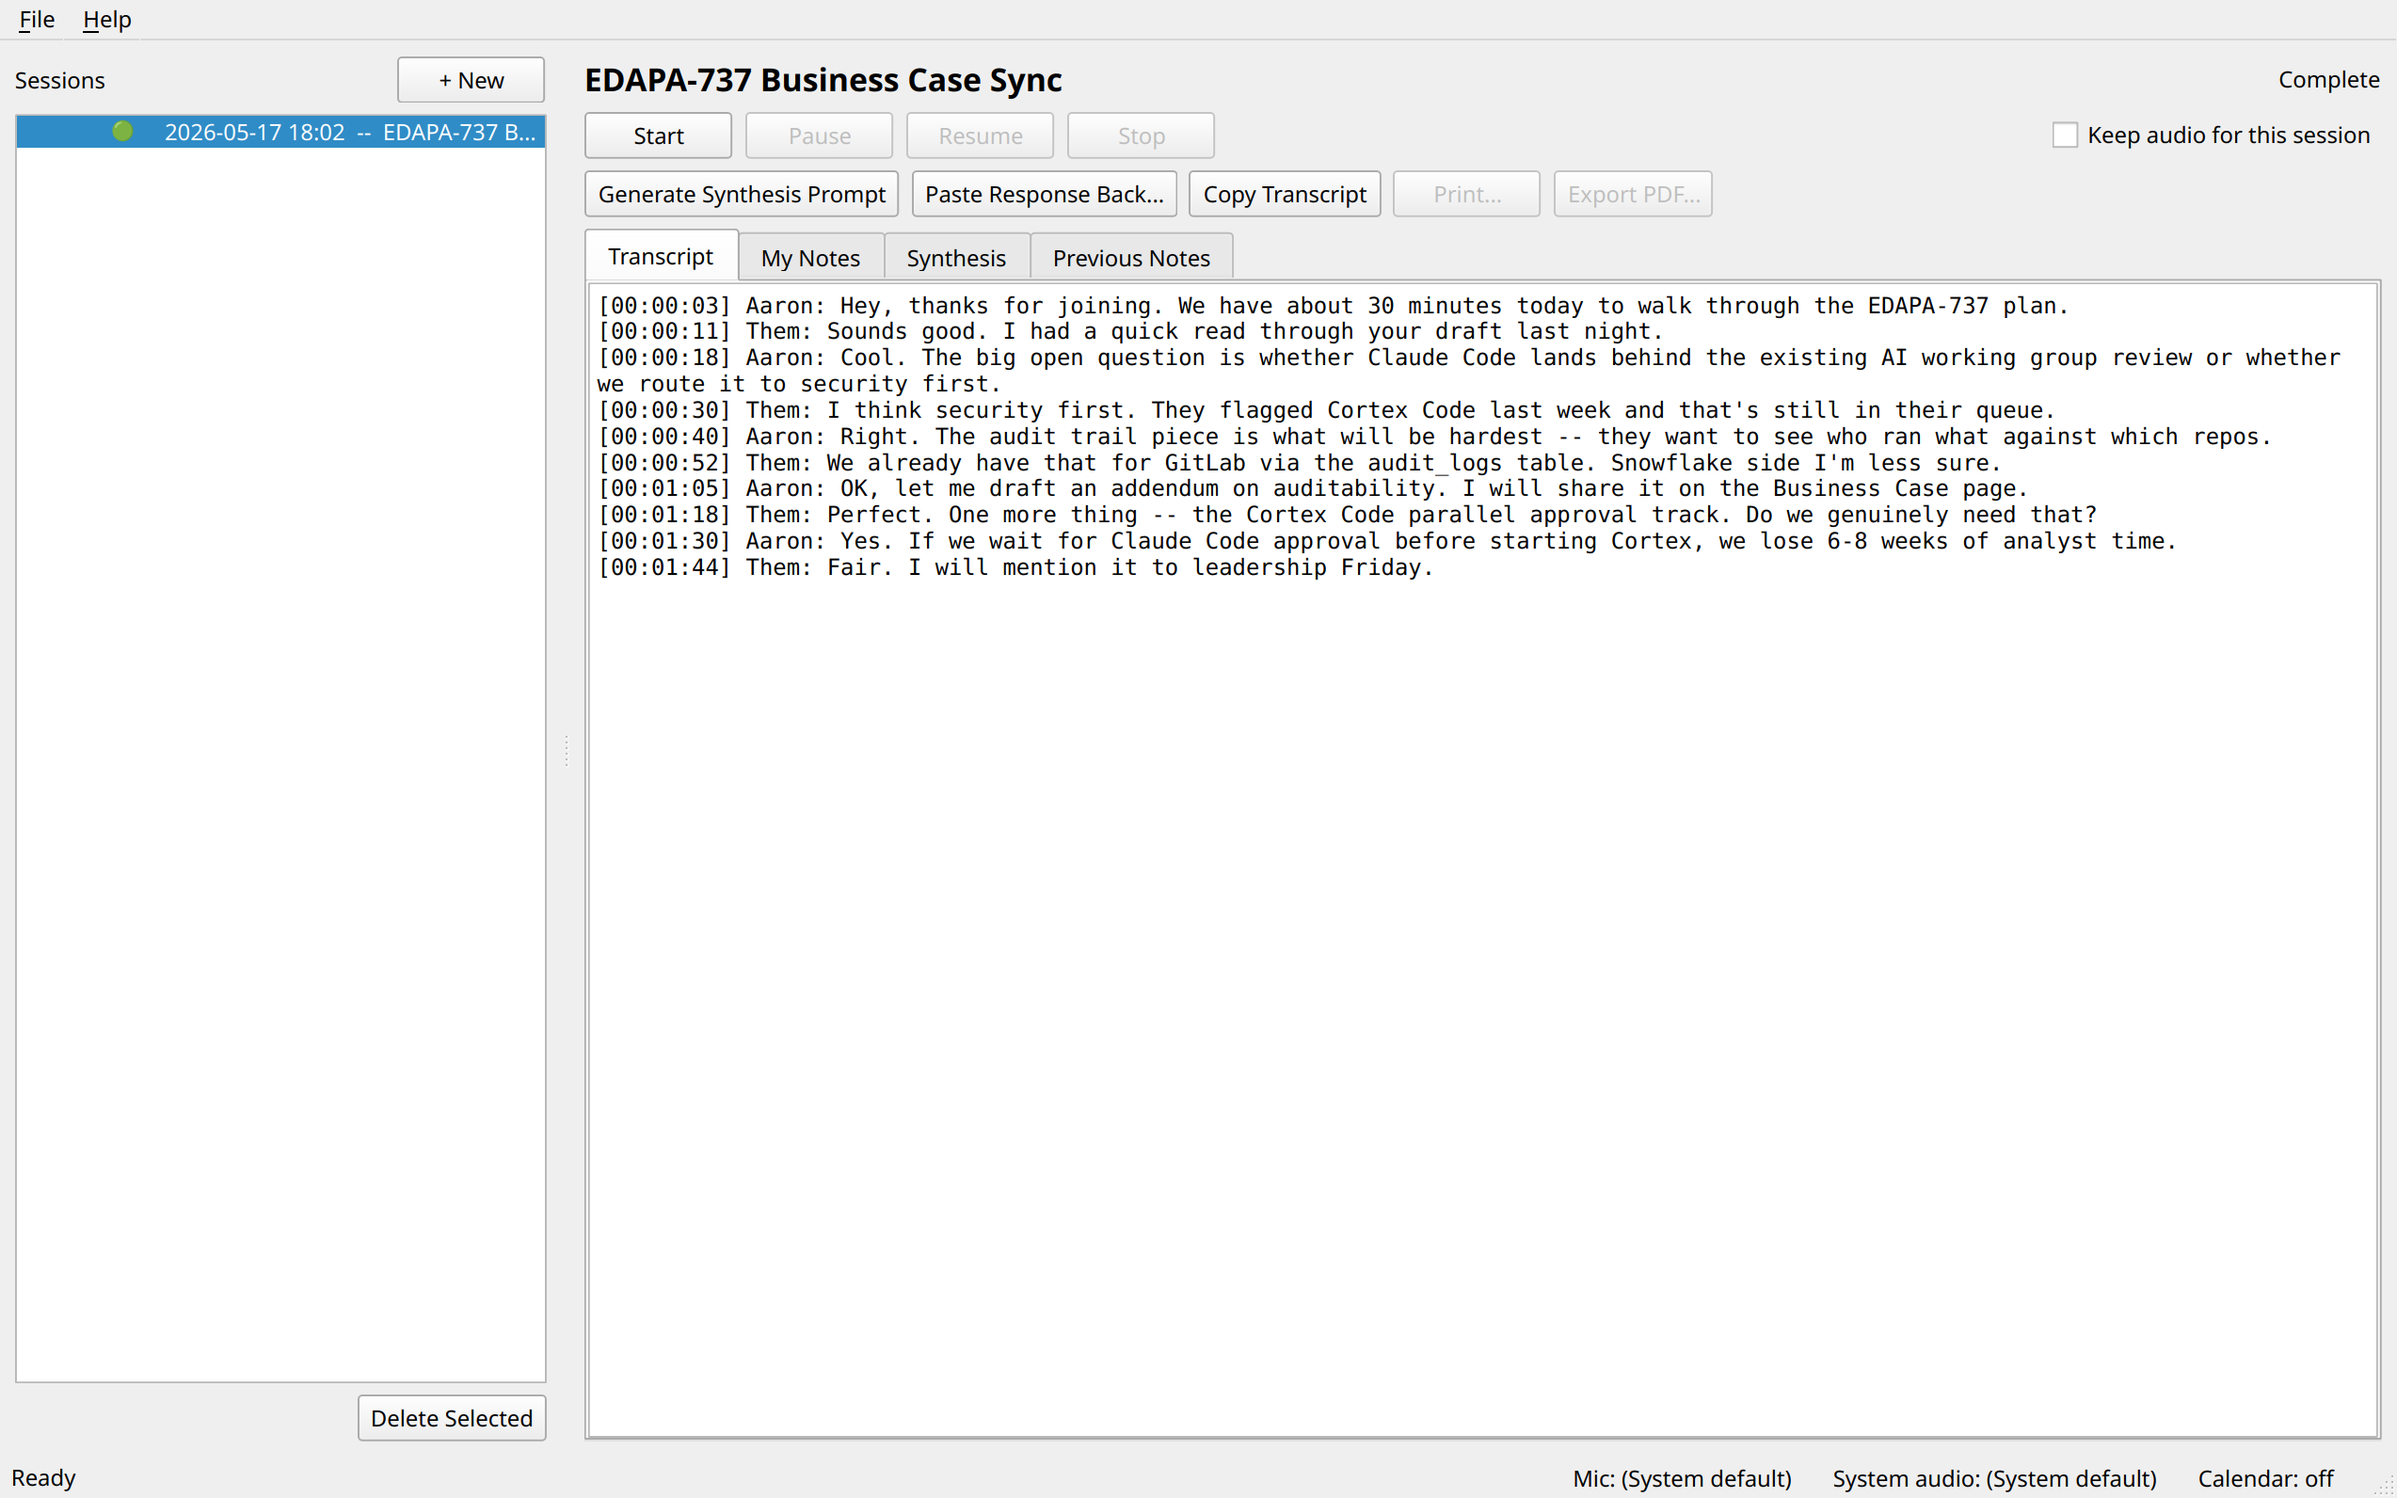
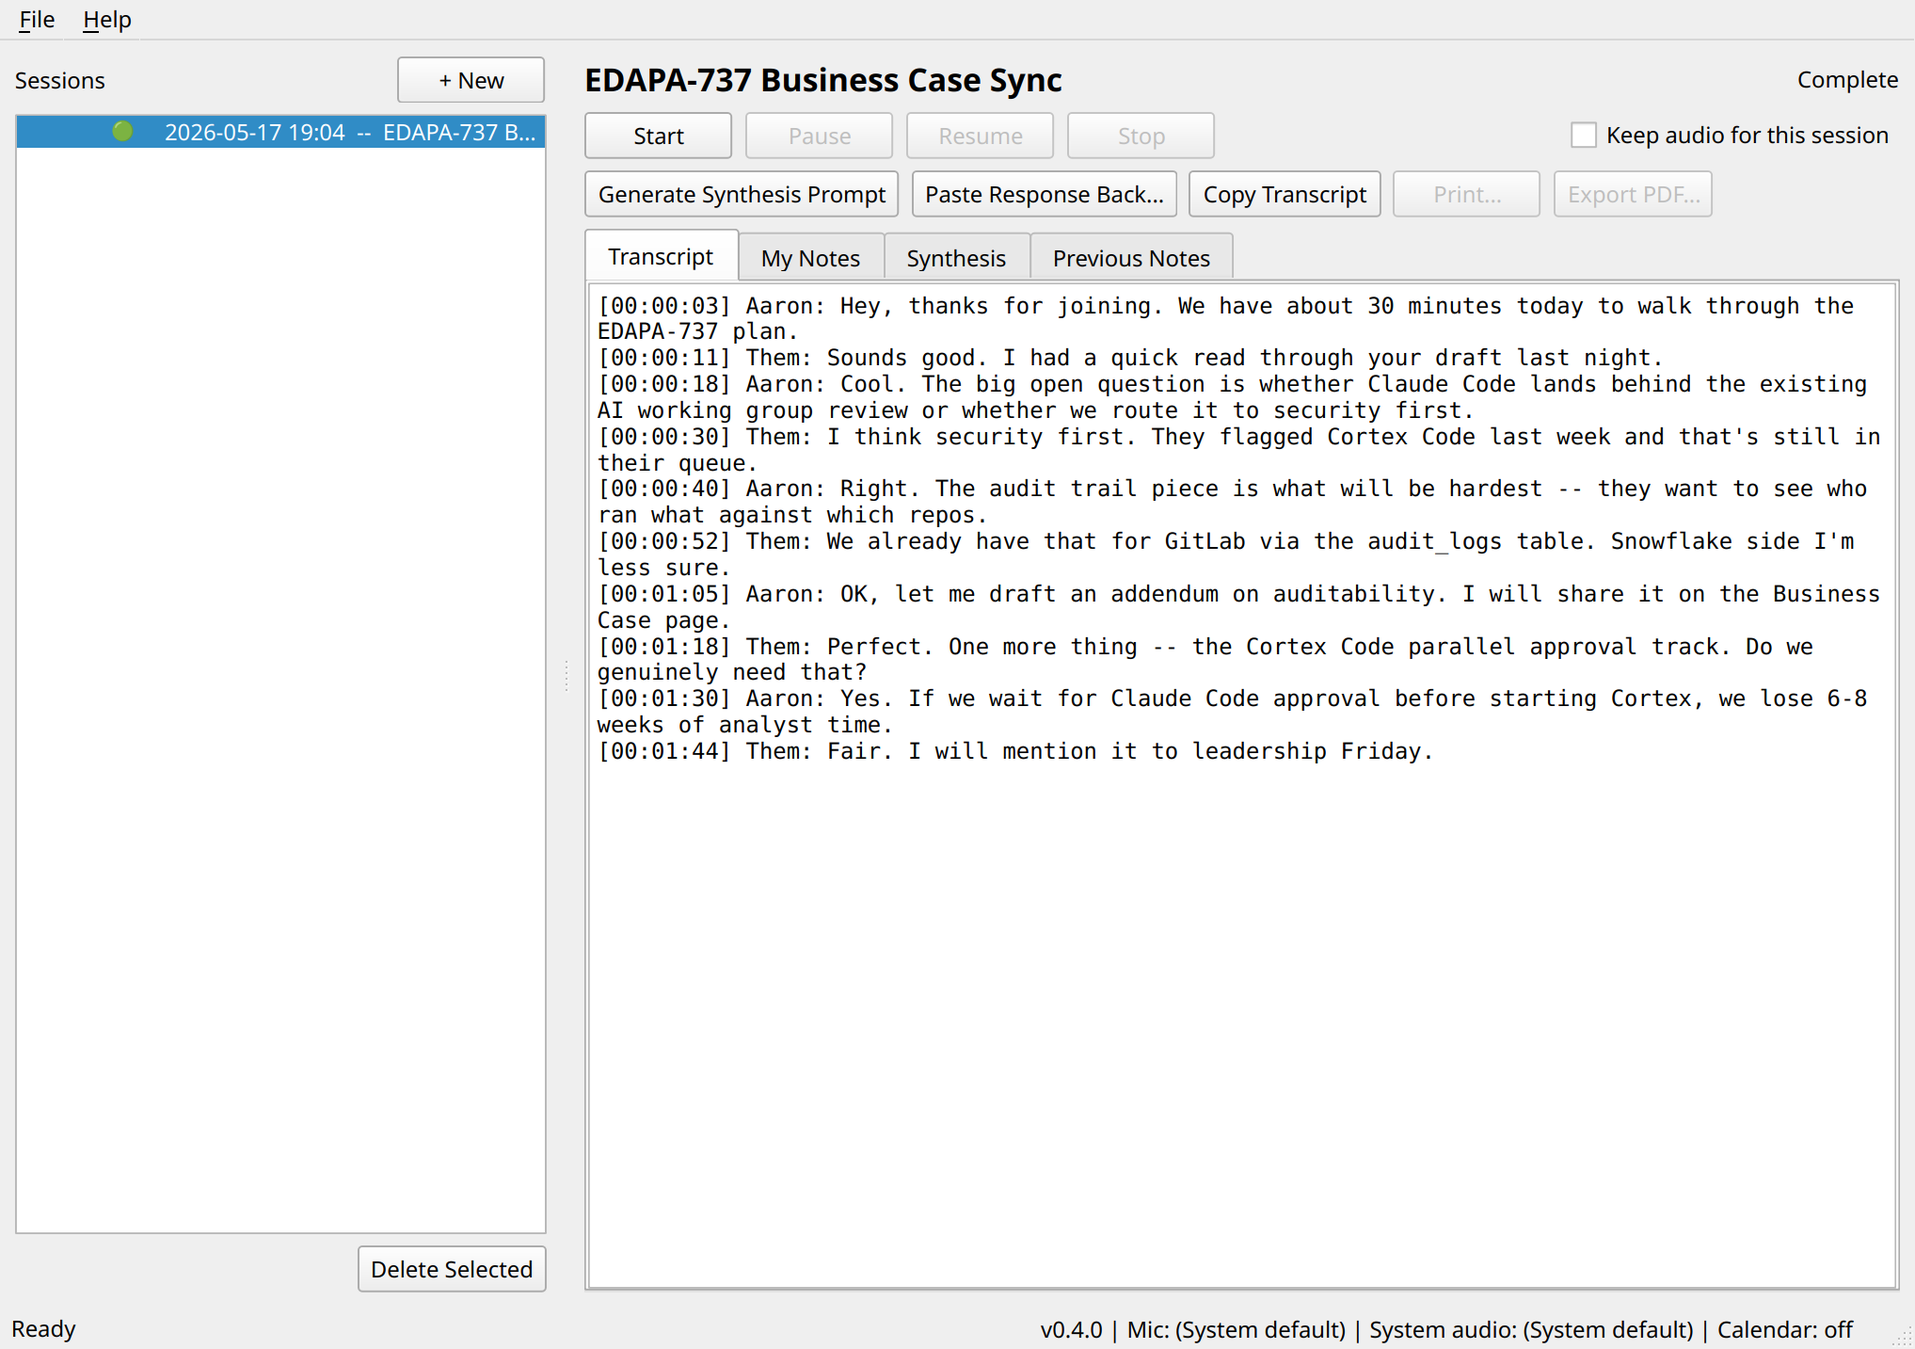
Status bar: add version + collapse to one label
Adding three separate addPermanentWidget() labels made Qt's
Windows-native style paint a separator line after each one,
including a trailing pipe past the last entry. Collapsing to a
single QLabel that joins entries with explicit " | " gives us
control over the separators; the trailing pipe is gone.

Also adds the running app version at the front of the indicator
string so the user can see at a glance which build they are on.
Tooltip joins the long-form per-item descriptions with newlines.

diff --git a/meeting_notetaker/ui/main_window.py b/meeting_notetaker/ui/main_window.py
@@ -161,24 +161,19 @@ class MainWindow(QMainWindow):
         self.setStatusBar(QStatusBar(self))
         self.statusBar().showMessage("Ready")
 
-        # Right-aligned permanent indicators on the status bar.
-        # Each is added with stretch=0 so the transient showMessage() text on
-        # the left side gets the whole leftover row. Labels are populated by
-        # app.py via set_status_indicators().
-        self._mic_indicator = QLabel("", self)
-        self._loopback_indicator = QLabel("", self)
-        self._calendar_indicator = QLabel("", self)
-        for ind in (
-            self._mic_indicator,
-            self._loopback_indicator,
-            self._calendar_indicator,
-        ):
-            ind.setContentsMargins(8, 0, 8, 0)
-            self.statusBar().addPermanentWidget(ind)
+        # Single right-aligned permanent indicator that joins all sub-items
+        # with " | " explicitly. Using one QLabel rather than multiple
+        # addPermanentWidget() calls avoids Qt's Windows-native style
+        # painting a separator line *after* the last permanent widget
+        # (which read as a trailing pipe).
+        self._indicators_label = QLabel("", self)
+        self._indicators_label.setContentsMargins(8, 0, 8, 0)
+        self.statusBar().addPermanentWidget(self._indicators_label)
 
     def set_status_indicators(
         self,
         *,
+        version: str = "",
         mic_label: str,
         mic_tooltip: str = "",
         loopback_label: str,
@@ -186,13 +181,27 @@ class MainWindow(QMainWindow):
         calendar_label: str,
         calendar_tooltip: str = "",
     ) -> None:
-        """Update the bottom status bar's right-side indicators."""
-        self._mic_indicator.setText(mic_label)
-        self._mic_indicator.setToolTip(mic_tooltip or mic_label)
-        self._loopback_indicator.setText(loopback_label)
-        self._loopback_indicator.setToolTip(loopback_tooltip or loopback_label)
-        self._calendar_indicator.setText(calendar_label)
-        self._calendar_indicator.setToolTip(calendar_tooltip or calendar_label)
+        """Update the bottom status bar's right-side indicator string.
+
+        Sub-items are joined with " | "; we explicitly avoid trailing
+        the string with a separator. The full per-sub-item tooltip text
+        is joined into a single multi-line tooltip so the user can still
+        hover the indicator to see the long form (the QLabel doesn't
+        expose per-character tooltips).
+        """
+        parts: list[str] = []
+        tooltip_parts: list[str] = []
+        if version:
+            parts.append(f"v{version}")
+            tooltip_parts.append(f"Running version: v{version}")
+        parts.append(mic_label)
+        tooltip_parts.append(mic_tooltip or mic_label)
+        parts.append(loopback_label)
+        tooltip_parts.append(loopback_tooltip or loopback_label)
+        parts.append(calendar_label)
+        tooltip_parts.append(calendar_tooltip or calendar_label)
+        self._indicators_label.setText(" | ".join(parts))
+        self._indicators_label.setToolTip("\n".join(tooltip_parts))
 
     def set_sessions(self, sessions: Iterable[Session]) -> None:
         self._list.blockSignals(True)

diff --git a/meeting_notetaker/app.py b/meeting_notetaker/app.py
@@ -424,6 +424,7 @@ class MainApp(QObject):
             )
 
         self.window.set_status_indicators(
+            version=__version__,
             mic_label=f"Mic: {_short_device_label(mic)}",
             mic_tooltip=f"Microphone device: {mic}",
             loopback_label=f"System audio: {_short_device_label(loopback)}",
